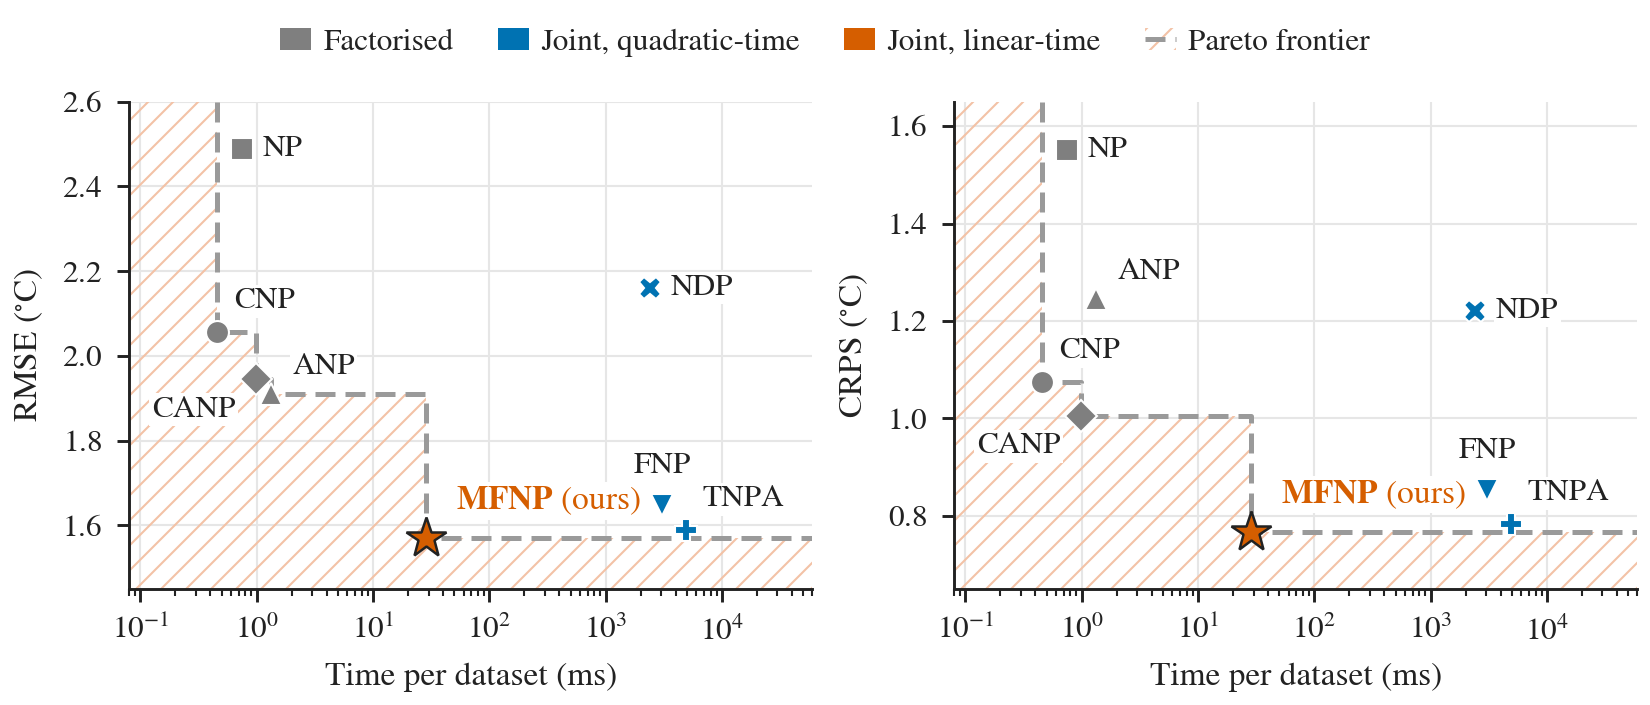
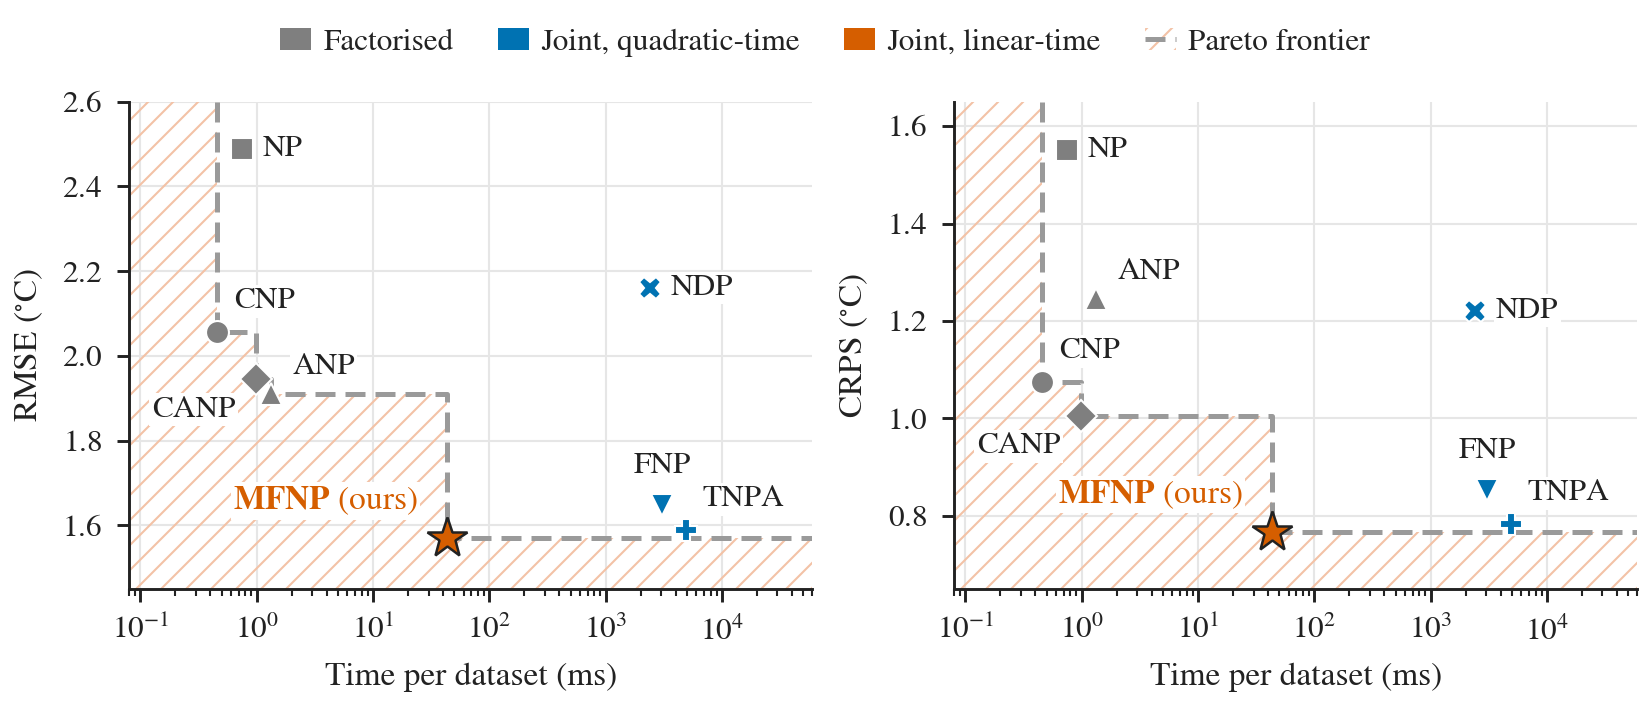
Fix MFNP label placement on Pareto plots and regenerate figures

Changed region(s): [[0.1236, 0.5617, 0.4018, 0.8113], [0.6182, 0.5929, 0.8964, 0.7801]]

diff --git a/plotting/pareto.py b/plotting/pareto.py
@@ -43,8 +43,10 @@ ABOVE_RIGHT = (4, 4, "left", "bottom")
 SMALL_REGIONS = {"CNP": ABOVE_RIGHT, "ANP": (5, 3, "left", "bottom"),
                  "CANP": (-5, -4, "right", "top"), "TNPA": ABOVE_RIGHT}
 LABEL_OFFSETS = {
-    "utah": {"rmse": {**SMALL_REGIONS, "FNP": (0, 6, "center", "bottom")},
-             "crps": {**SMALL_REGIONS, "FNP": (0, 6, "center", "bottom")}},
+    "utah": {"rmse": {**SMALL_REGIONS, "FNP": (0, 6, "center", "bottom"),
+                      "MFNP": (-7, 5, "right", "bottom")},
+             "crps": {**SMALL_REGIONS, "FNP": (0, 6, "center", "bottom"),
+                      "MFNP": (-7, 5, "right", "bottom")}},
     "california": {"rmse": {**SMALL_REGIONS, "CANP": (-3, -5, "right", "top")},
                    "crps": {**SMALL_REGIONS, "CANP": (0, -6, "center", "top")}},
     "us": {"rmse": {"CNP": (-6, 0, "right", "center"), "CANP": (4, -5, "left", "top")},
@@ -73,8 +75,7 @@ def panel(ax, results, region, metric):
                     capsize=0, zorder=3)
         ax.plot(x, y, marker, ms=10 if ours else 5.5, mfc=color, mec=INK if ours else "white",
                 mew=0.6 if ours else 0.5, zorder=5 if ours else 4)
-        dx, dy, ha, va = (OURS_OFFSET if ours
-                          else LABEL_OFFSETS[region][metric].get(name, RIGHT))
+        dx, dy, ha, va = LABEL_OFFSETS[region][metric].get(name, OURS_OFFSET if ours else RIGHT)
         # The white box hides the hatch behind the label but not the frontier line.
         ax.annotate(r"$\mathbf{MFNP}$ (ours)" if ours else name, (x, y), xytext=(dx, dy),
                     textcoords="offset points", ha=ha, va=va, fontsize=8 if ours else 7.5,
